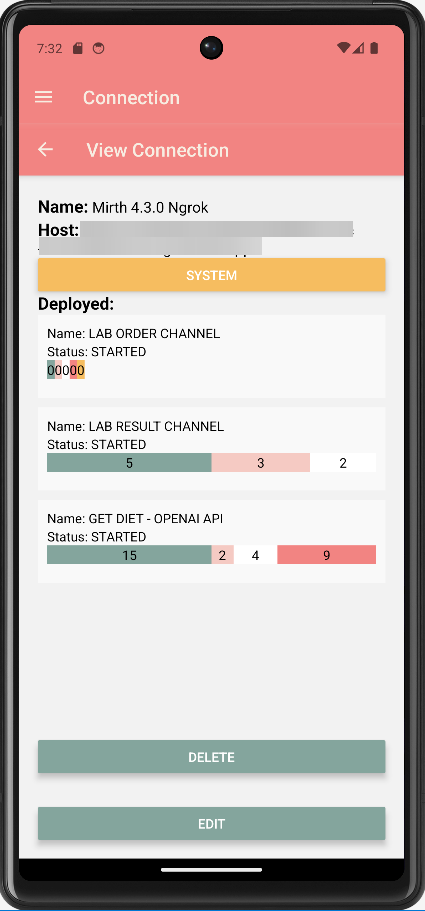
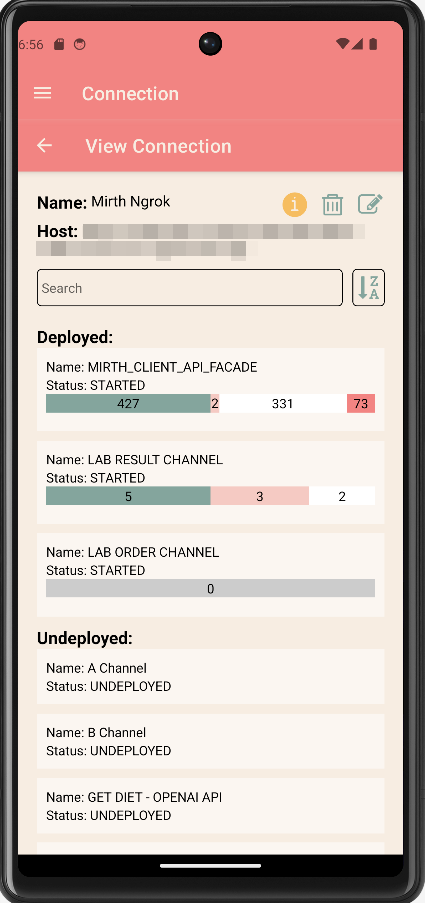
docs: update

diff --git a/README.md b/README.md
@@ -19,6 +19,8 @@ Tutorial link here: [PocketMRTH - Get Started](https://thisdevblogs.wordpress.co
 - Two-Factor Authentication (2FA) Option: We've integrated 2FA for added security.
 - Secure Credential Storage: Your Mirth Connect Client API credentials are safely stored using Expo's SecureStore.
 - Effortless Channel Stats Visualization: Use the app's intuitive charts to visualize the status of your Mirth Connect servers and their channel statistics.
+- Start, Stop, Pause and Resume Channels: You are now able to interact and change your channel's state/status. 
+- Deploy and Undeploy Channels
 
 ## Screenshots
 
@@ -26,7 +28,14 @@ Tutorial link here: [PocketMRTH - Get Started](https://thisdevblogs.wordpress.co
 
 ![Dashboard Screen](docs/screenshot-main.png)
 
+![Channel List Screen](docs/screenshot-connection-list.png)
+
 ![Channel Stats Screen](docs/screenshot-connection-channel-stats.png)
+
+![Channel Command Stop Screen](docs/screenshot-channel-command-stop.png)
+
+![Channel Command Deploy Screen](docs/screenshot-channel-command-deploy.png)
+
 
 ## Video Demo
 [PocketMRTH - DEMO](https://www.youtube.com/watch?v=dNSfR93Cq-4)
